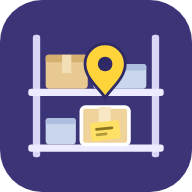
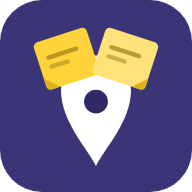
이름을 수나비로: 수납한 자리를 찾아 주는 네비 (#109)
* 미리보기: 이름 수나비 (나비 아니고, 수납 네비)

- tools/rename_app.py 수나비: 앱 이름·탭 제목·공유 글·설치 이름
- 아이콘: 노란 쪽지 두 장이 날개처럼 붙은 위치 핀 (얼핏 나비, 자세히 보면 핀)
- 첫 화면 이름 줄 '수나비 · 나비 아니고, 수납 네비예요', 왼쪽 위 로고를 새 아이콘으로
- 공유 미리보기 이미지 새로 (수나비 + 반전 문구 + 아이콘), 주소 버전 아이콘 v=8, og v=9

Claude-Session: https://claude.ai/code/session_01YLzJYaCSw3RBoKxVptiud9

* 수나비 문구: '나비 아니고' 대신 '수납한 자리를 찾아 주는 네비'

- 부정하며 설명하지 않고, 문장 속 '수납'·'네비'를 노란 형광펜으로 살짝 칠해 읽다 보면 수나비 = 수납 + 네비인 걸 알게
- 첫 화면 이름 줄, 탭 제목, 공유 글·이미지, 설치 이름 모두 같은 문구로

Claude-Session: https://claude.ai/code/session_01YLzJYaCSw3RBoKxVptiud9

* 첫 화면 설명 줄: '어느 구역인지 나와요' → '안내해요' (네비 느낌을 설명 줄에서 이어 주기)

Claude-Session: https://claude.ai/code/session_01YLzJYaCSw3RBoKxVptiud9

---------

diff --git a/index.html b/index.html
@@ -5,17 +5,17 @@
     <meta name="viewport" content="width=device-width, initial-scale=1.0">
     <meta name="theme-color" content="#ffffff">
     <link rel="manifest" href="manifest.webmanifest">
-    <link rel="apple-touch-icon" href="apple-touch-icon.png?v=7">
-    <link rel="icon" type="image/png" sizes="192x192" href="icon-192.png?v=7">
+    <link rel="apple-touch-icon" href="apple-touch-icon.png?v=8">
+    <link rel="icon" type="image/png" sizes="192x192" href="icon-192.png?v=8">
     <meta name="mobile-web-app-capable" content="yes">
     <meta name="apple-mobile-web-app-capable" content="yes">
-    <meta name="apple-mobile-web-app-title" content="창고지기">
+    <meta name="apple-mobile-web-app-title" content="수나비">
     <meta name="apple-mobile-web-app-status-bar-style" content="default">
     <script>
         // ✏ 서비스 이름: 앱 화면 글자·공유·백업/인쇄 파일 이름·인쇄물은 모두 이 한 곳을 쓴다.
         //   이름을 바꿀 땐 python3 tools/rename_app.py 새이름 → 이 줄과 아래 <head>의 제목·공유 미리보기 글, manifest까지 한 번에 바뀐다.
         //   (검색·카톡 미리보기는 스크립트를 실행하지 않고 <head> 글자를 그대로 읽어서, 그쪽은 글자로 따로 적혀 있어야 한다)
-        const APP_NAME = '창고지기';
+        const APP_NAME = '수나비';
         // 이름 뒤 조사: 받침 있으면 '으로/이/은/을', 없으면 '로/가/는/를' (ㄹ 받침 + 로)
         function josa(word, withBatchim, without) {
             const c = word.charCodeAt(word.length - 1) - 0xAC00;
@@ -35,18 +35,18 @@
     <link rel="preconnect" href="https://cdn.jsdelivr.net" crossorigin>
     <link rel="stylesheet" href="https://cdn.jsdelivr.net/npm/@tabler/icons-webfont@latest/dist/tabler-icons.min.css" media="print" onload="this.media='all'">
     <noscript><link rel="stylesheet" href="https://cdn.jsdelivr.net/npm/@tabler/icons-webfont@latest/dist/tabler-icons.min.css"></noscript>
-    <title>창고지기 - 사진 한 장으로 만드는 창고 지도</title>
+    <title>수나비 - 수납한 자리를 찾아 주는 네비 · 사진으로 만드는 창고 지도</title>
     <!-- 카톡·SNS 링크 미리보기 (이미지 주소는 반드시 전체 주소여야 카톡이 읽는다) -->
     <meta name="description" content="선반 사진을 구역으로 나누고 물건을 적으면, 검색 한 번으로 위치를 찾아요. A4로 뽑아 벽에 붙일 수도 있어요.">
     <meta property="og:type" content="website">
-    <meta property="og:site_name" content="창고지기">
-    <meta property="og:title" content="창고지기 - 사진 한 장이 창고 지도가 돼요">
+    <meta property="og:site_name" content="수나비">
+    <meta property="og:title" content="수나비 - 수납한 자리를 찾아 주는 네비">
     <meta property="og:description" content="선반 사진을 구역으로 나누고 물건을 적으면, 검색 한 번으로 위치를 찾아요.">
     <meta property="og:url" content="https://trafficjourney.github.io/udigo/">
-    <meta property="og:image" content="https://trafficjourney.github.io/udigo/og-image.png?v=8">
+    <meta property="og:image" content="https://trafficjourney.github.io/udigo/og-image.png?v=9">
     <meta property="og:image:width" content="1200">
     <meta property="og:image:height" content="630">
-    <meta property="og:image:alt" content="창고지기: 사진 한 장이 창고 지도가 돼요. 남색 앱 아이콘 속 선반에서 찾는 상자에 노란 쪽지와 위치 핀, 아래에 '빨대 → 아래 칸 가운데' 검색 결과">
+    <meta property="og:image:alt" content="수나비: 수납한 자리를 찾아 주는 네비. 노란 쪽지 두 장이 붙은 위치 핀 아이콘과, 사진 한 장이 창고 지도가 된다는 소개">
     <meta property="og:locale" content="ko_KR">
     <meta name="twitter:card" content="summary_large_image">
     <style>
@@ -1068,6 +1068,12 @@
         .welcome-steps span { font-size: 11.5px; line-height: 1.35; color: var(--text2); word-break: keep-all; text-align: center; }
         .welcome-sub { margin-top: 10px; font-size: 14px; line-height: 1.55; color: var(--text2); word-break: keep-all; }
         .brand-home { display: flex; align-items: center; background: none; border: 0; padding: 0; font: inherit; color: inherit; cursor: pointer; }
+        .brand-icon { width: 1.35em; height: 1.35em; border-radius: 0.34em; margin-right: 7px; flex: none; }
+        /* 첫 화면 이름 줄: 문장 속 '수납'·'네비'를 살짝 칠해서, 읽다 보면 수나비 = 수납 + 네비인 걸 알게 */
+        .welcome-brand { display: flex; align-items: center; justify-content: center; gap: 8px; margin: 0 0 10px; font-size: 14px; color: var(--text2); flex-wrap: wrap; }
+        .welcome-brand img { width: 28px; height: 28px; border-radius: 8px; }
+        .welcome-brand b { font-size: 18px; color: var(--text); letter-spacing: -0.3px; }
+        .welcome-brand mark { background: #ffe27a; color: #2b2716; padding: 0 1px; border-radius: 3px; font-weight: 700; }
         body:not(.welcome-revisit) .revisit-only { display: none !important; }
         .welcome-back { display: inline-flex; margin: -16px 0 16px; }
         .install-banner-actions { display: flex; gap: 4px; flex-shrink: 0; }
@@ -1423,7 +1429,7 @@
 </div>
 
 <div id="guideModal" style="display:none; line-height: 1.6;">
-    <h2 style="text-align: center; color: var(--accent-text); margin-bottom: 16px; font-size: 1.25em;"><span data-app-name>창고지기</span> 사용법</h2>
+    <h2 style="text-align: center; color: var(--accent-text); margin-bottom: 16px; font-size: 1.25em;"><span data-app-name>수나비</span> 사용법</h2>
     <div style="background: var(--bg); border: 1px solid var(--border); padding: 16px; border-radius: 8px; margin-bottom: 16px;">
         <ol class="guide-steps">
             <li><i class="ti ti-camera"></i><div><b>사진 올리고 구역 만들기</b><span>사진 가운데 <b>[AI로 구역 찾기]</b>를 누르거나, <b>[직접 그리기]</b>로 사진 위를 끌어 구역을 만들어요. 나중에 고치려면 오른쪽 아래 <b>[구역 고치기]</b>.</span><small>AI로 찾을 때 사진만 외부 AI 서버로 보내져요.</small></div></li>
@@ -1551,7 +1557,7 @@
 
 <div class="search-bar">
     <div class="app-brand" style="display: flex; align-items: center;">
-        <button type="button" class="brand-home" onclick="openWelcomeRevisit()" title="첫 화면 보기"><i class="ti ti-box" style="margin-right: 6px;"></i><span data-app-name>창고지기</span><span class="beta-badge">베타</span></button>
+        <button type="button" class="brand-home" onclick="openWelcomeRevisit()" title="첫 화면 보기"><img src="icon-192.png?v=8" alt="" class="brand-icon"><span data-app-name>수나비</span><span class="beta-badge">베타</span></button>
         <button onclick="openVideoGuideModal()" style="background: none; border: none; padding: 0; margin-left: 8px; cursor: pointer; color: #e09b3a; display: flex; align-items: center;" title="사용방법 가이드">
             <i class="ti ti-bulb" style="font-size: 18px; transition: color 0.2s;"></i>
         </button>
@@ -1639,10 +1645,11 @@
             </g>
             <g class="welcome-hero-pin"><path d="M119 36 a12 12 0 1 1 24 0 c0 9 -12 20 -12 20 s-12 -11 -12 -20z" fill="var(--accent)"/><circle cx="131" cy="35" r="4.5" fill="var(--on-accent)"/></g>
         </svg>
+        <div class="welcome-brand"><img src="icon-192.png?v=8" alt=""><b data-app-name>수나비</b><span><mark>수납</mark>한 자리를 찾아 주는 <mark>네비</mark></span></div>
         <div class="welcome-beta"><span class="beta-pill"><i class="ti ti-flask"></i> 무료 베타 운영 중</span></div>
         <h2 class="welcome-title">사진 한 장이<br>창고 지도가 돼요</h2>
         <!-- 포스트잇과 다른 점: 선반 앞에 가지 않아도 물건 이름으로 자리를 찾는다 (넣을 때도, 꺼낼 때도) -->
-        <p class="welcome-sub">물건 이름만 대면 어느 구역인지 나와요<br class="sub-br"><span class="sub-more"> 선반 앞에 가지 않아도, 넣을 때도 꺼낼 때도</span></p>
+        <p class="welcome-sub">물건 이름만 대면 어느 구역인지 안내해요<br class="sub-br"><span class="sub-more"> 선반 앞에 가지 않아도, 넣을 때도 꺼낼 때도</span></p>
         <div class="welcome-actions">
             <button class="btn-base btn-primary btn-lg" onclick="loadSampleData()"><i class="ti ti-player-play"></i> 예시로 먼저 둘러보기</button>
             <button class="btn-base btn-secondary btn-lg" onclick="pickPhoto()"><i class="ti ti-camera"></i> 내 창고 사진으로 시작</button>
@@ -1951,7 +1958,7 @@
         <button class="settings-row" onclick="document.getElementById('backupFileInput').click()"><i class="ti ti-upload"></i> 백업 파일로 복구</button>
         <button class="settings-row" onclick="openDataInfo()"><i class="ti ti-shield-lock"></i> 내 데이터는 어디에 있나요?</button>
         <button class="settings-row" onclick="closeSettingsModal(); document.getElementById('guideModal').style.setProperty('display', 'block', 'important');"><i class="ti ti-help-circle"></i> 사용법 다시 보기</button>
-        <button class="settings-row" onclick="shareApp()"><i class="ti ti-share"></i> <span data-app-name>창고지기</span> 알려주기 (링크 공유)</button>
+        <button class="settings-row" onclick="shareApp()"><i class="ti ti-share"></i> <span data-app-name>수나비</span> 알려주기 (링크 공유)</button>
         <button class="settings-row" onclick="openFeedbackForm()"><i class="ti ti-message-2"></i> 의견 보내기</button>
         <button id="contactRow" class="settings-row" onclick="openContact()" hidden><i class="ti ti-headset"></i> 문의하기 <small id="contactText" style="margin-left: auto; color: var(--text3); font-weight: 400;"></small></button>
         <button id="resetRow" class="settings-row is-danger" onclick="openResetAsk()"><i class="ti ti-trash"></i> 모든 데이터 지우기</button>
